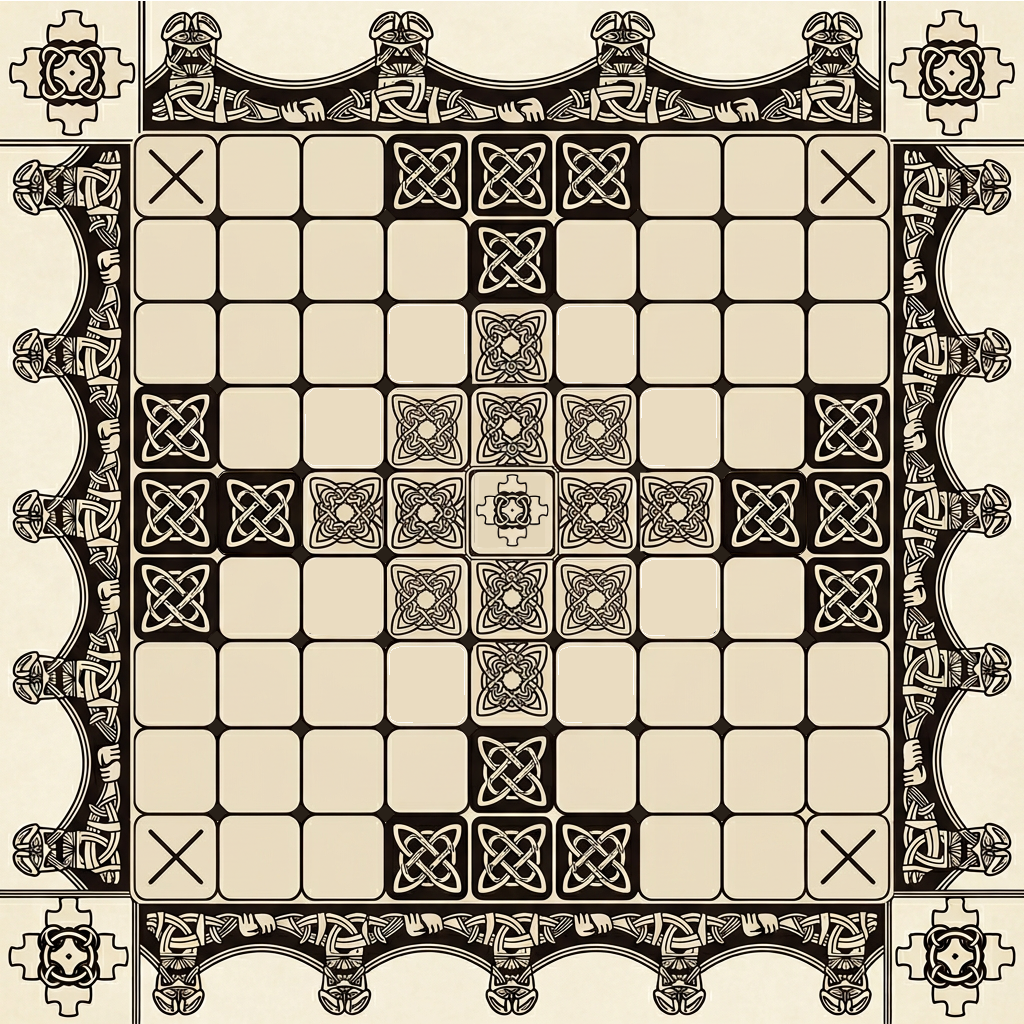
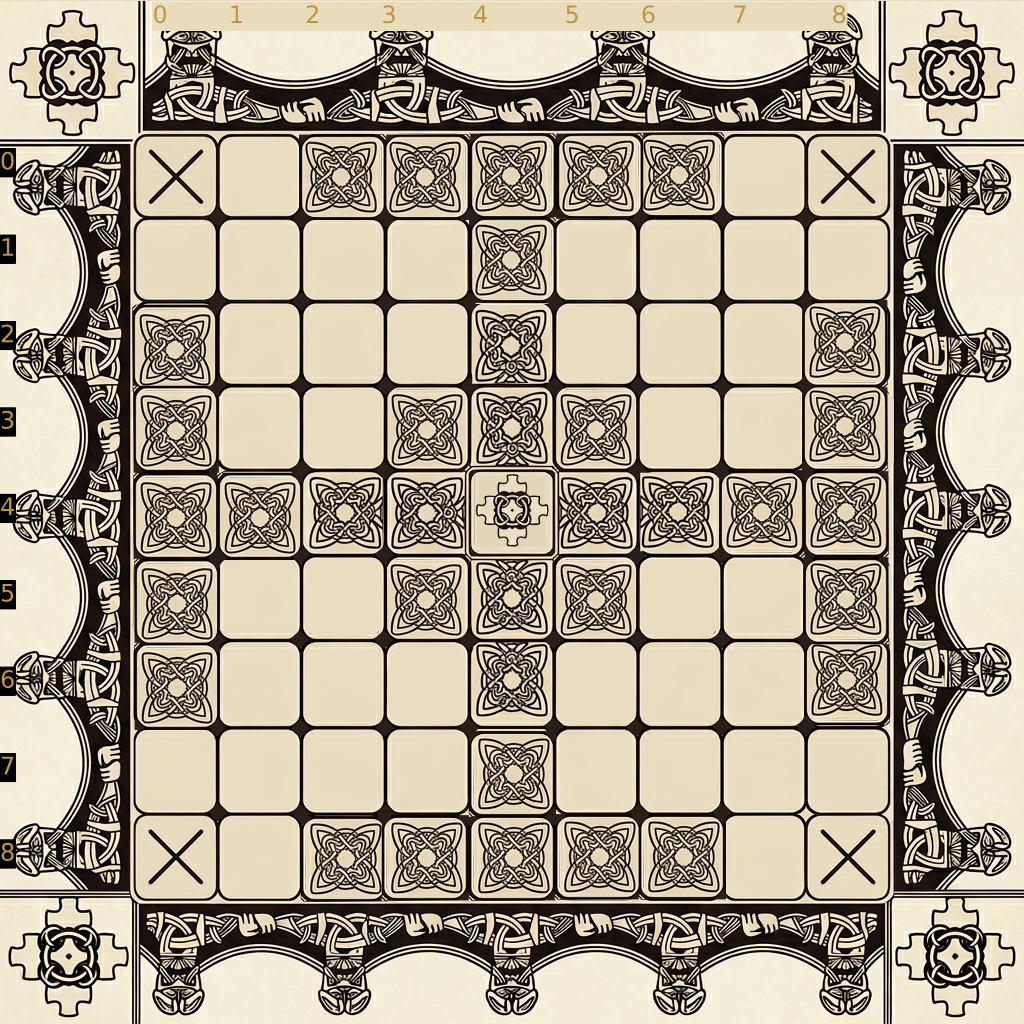
changing the board and make the background music to play infinitely

diff --git a/canvas.py b/canvas.py
@@ -211,10 +211,17 @@ class HnefataflGame:
 def play_background_music():
     audio_path = os.path.join(config.ASSETS_DIR, "audio", "Nordic-Folk.ogg")
     try:
+        # Load the media as a static source
         music = pyglet.media.load(audio_path, streaming=False)
+
         player = pyglet.media.Player()
-        player.queue(music)
-        player.loop = True
+
+        # FIX: Wrap the source in a SourceGroup to ensure it loops
+        loop = pyglet.media.SourceGroup(music.audio_format, None)
+        loop.loop = True
+        loop.queue(music)
+
+        player.queue(loop)
         player.play()
         return player
     except Exception as e:

diff --git a/config.py b/config.py
@@ -32,7 +32,7 @@ def attacker_positions():
     attackers = {}
 
     # Top and bottom rows (near edges)
-    for i in range(3, 6):  # middle three columns
+    for i in range(2, 7):  # middle three columns
         attackers[(i, 0)] = cell(i, 0)
         attackers[(i, 8)] = cell(i, 8)
         if i == 4:
@@ -40,7 +40,7 @@ def attacker_positions():
             attackers[(i, 7)] = cell(i, 7)
 
     # Left and right columns (near edges)
-    for j in range(3, 6):  # middle three rows
+    for j in range(2, 7):  # middle three rows
         attackers[(0, j)] = cell(0, j)
         attackers[(8, j)] = cell(8, j)
         if j == 4:
@@ -56,6 +56,10 @@ def defender_positions():
             continue
         defenders[(i, 4)] = cell(i, 4)
         defenders[(4, i)] = cell(4, i)
+    defenders[(3, 3)] = cell(3, 3)
+    defenders[(5, 3)] = cell(5, 3)
+    defenders[(3, 5)] = cell(3, 5)
+    defenders[(5, 5)] = cell(5, 5)
     return defenders
 
 